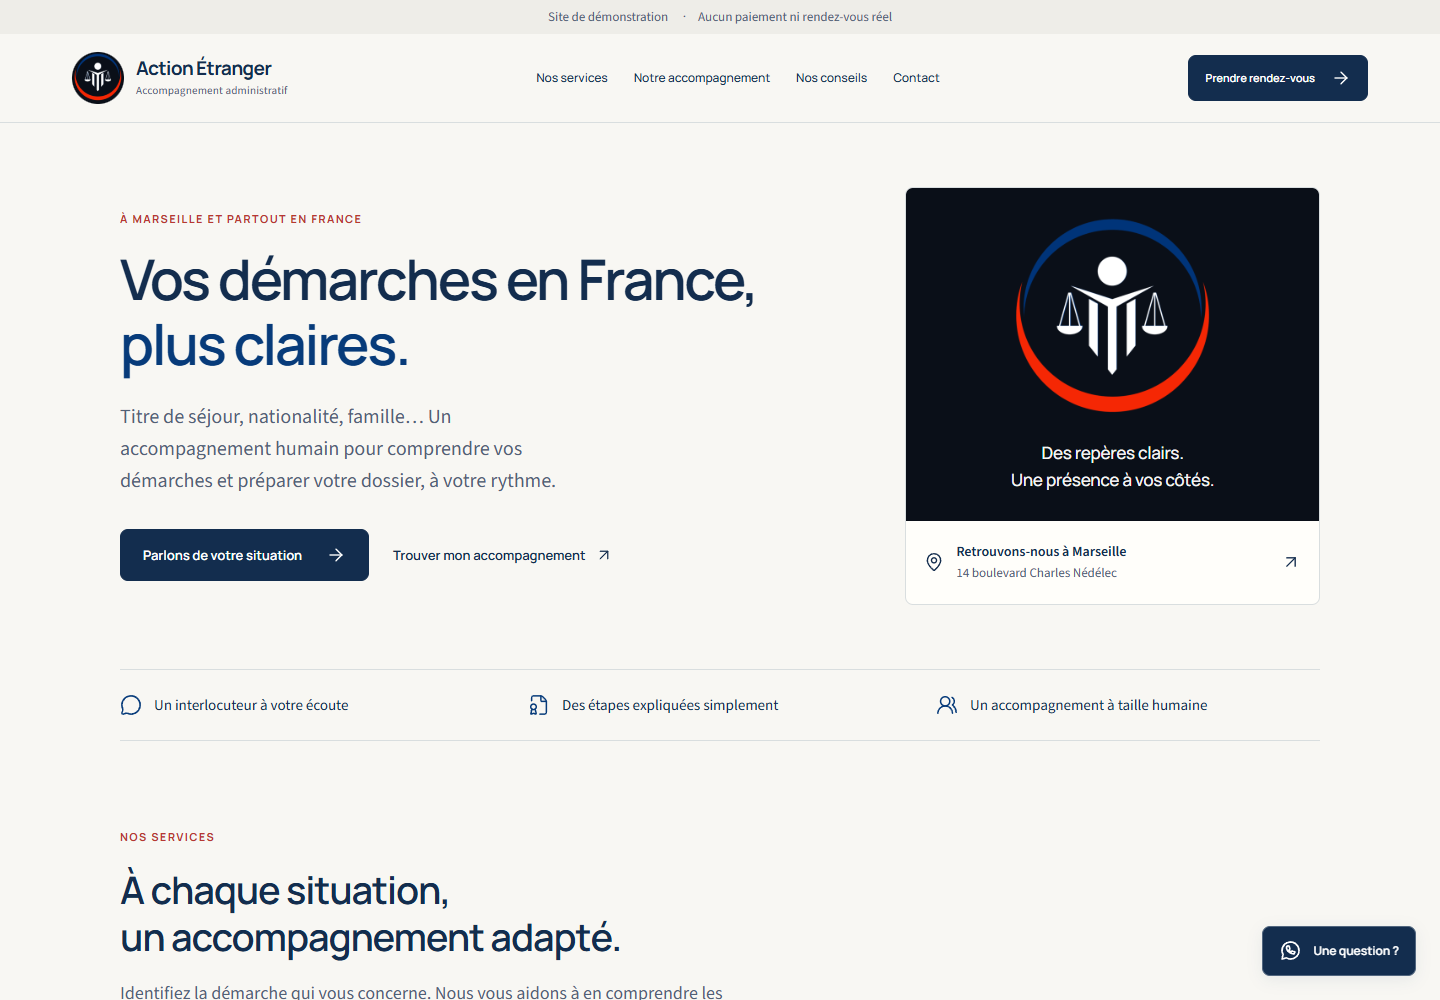
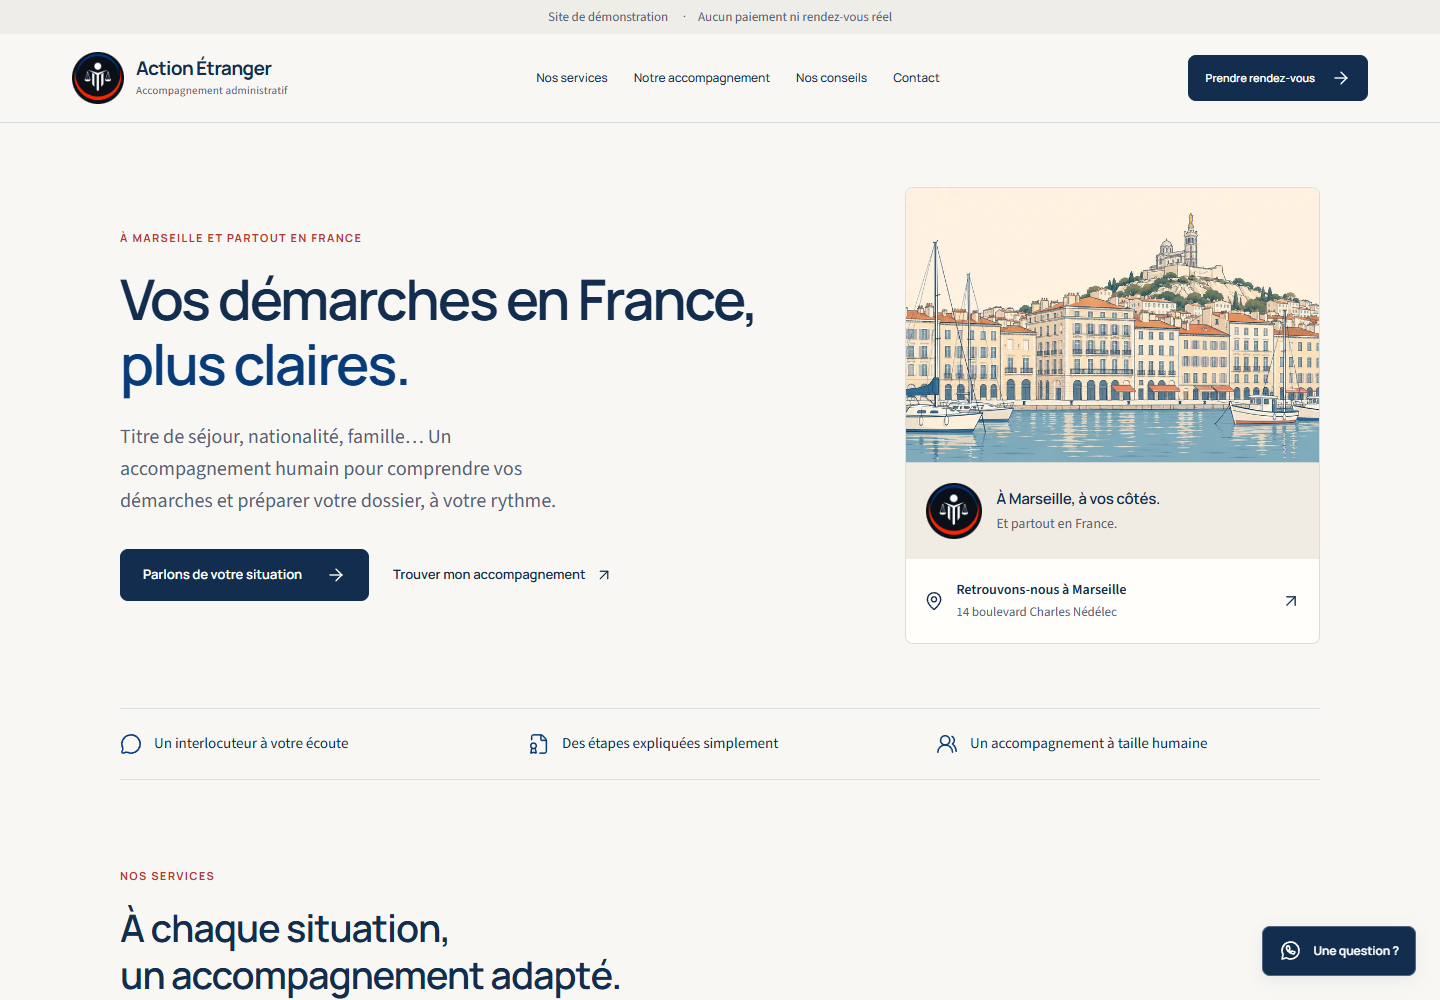
Add a restrained Marseille illustration to the homepage

diff --git a/style.css b/style.css
@@ -377,21 +377,40 @@ nav > a[aria-current]:after {
   background: var(--surface);
 }
 .brand-portrait {
-  background: #0a0f18;
-  text-align: center;
-  padding: 24px 24px 28px;
+  display: flex;
+  align-items: center;
+  gap: 14px;
+  background: #f0ece3;
+  padding: 20px;
 }
-.brand-portrait img {
-  width: 216px;
-  height: 216px;
+.marseille-scene {
+  display: block;
+  width: 100%;
+  height: auto;
+  aspect-ratio: 3 / 2;
+  object-fit: cover;
+  border-bottom: 1px solid #d2d8d6;
+}
+.brand-portrait .portrait-logo {
+  flex: 0 0 auto;
+  width: 56px;
+  height: 56px;
   object-fit: contain;
-  margin: auto;
+  border-radius: 50%;
+  background: #0a0f18;
 }
 .brand-portrait p {
-  color: #f5f5f5;
-  font: 500 17px/1.55 var(--heading);
+  color: var(--ink);
+  font: 600 15px/1.5 var(--heading);
   letter-spacing: -0.2px;
-  margin-top: 12px;
+  margin: 0;
+}
+.brand-portrait small {
+  display: block;
+  color: var(--muted);
+  font: 400 14px/1.5 var(--body);
+  letter-spacing: 0;
+  margin-top: 3px;
 }
 .hero-address {
   display: flex;
@@ -1301,14 +1320,15 @@ textarea {
     font-size: 18px;
   }
   .brand-portrait {
-    padding: 20px;
-  }
-  .brand-portrait img {
-    width: 180px;
-    height: 180px;
+    padding: 16px;
+    gap: 10px;
   }
   .brand-portrait p {
-    font-size: 15px;
+    font-size: 13px;
+  }
+  .brand-portrait .portrait-logo {
+    width: 44px;
+    height: 44px;
   }
   .hero-address > [data-ui-icon]:last-child {
     display: none;
@@ -1520,21 +1540,18 @@ textarea {
     font-size: 12px;
   }
   .hero-brand {
-    display: grid;
-    grid-template-columns: 112px 1fr;
+    display: block;
   }
   .brand-portrait {
-    padding: 8px;
-    display: flex;
-    align-items: center;
-    justify-content: center;
+    padding: 16px;
+    gap: 14px;
   }
-  .brand-portrait img {
-    width: 96px;
-    height: 96px;
+  .brand-portrait .portrait-logo {
+    width: 48px;
+    height: 48px;
   }
   .brand-portrait p {
-    display: none;
+    font-size: 14px;
   }
   .hero-address {
     padding: 16px;

diff --git a/index.html b/index.html
@@ -33,7 +33,7 @@
       type="font/woff2"
       crossorigin
     />
-    <link rel="stylesheet" href="style.css?v=20261116" />
+    <link rel="stylesheet" href="style.css?v=20261117-marseille" />
     <script src="app.js?v=20261116" defer></script>
   </head>
   <body>
@@ -100,15 +100,30 @@
             </div>
           </div>
           <aside class="hero-brand" aria-label="Action Étranger à Marseille">
+            <img
+              class="marseille-scene"
+              src="assets/marseille-vieux-port.webp"
+              srcset="
+                assets/marseille-vieux-port-768.webp 768w,
+                assets/marseille-vieux-port.webp     960w
+              "
+              sizes="(max-width: 600px) calc(100vw - 42px), (max-width: 900px) 300px, (max-width: 1200px) 400px, 415px"
+              alt="Illustration du Vieux-Port de Marseille, ses bateaux et Notre-Dame de la Garde à l’horizon"
+              width="960"
+              height="640"
+              fetchpriority="high"
+            />
             <div class="brand-portrait">
               <img
+                class="portrait-logo"
                 src="assets/action-etranger-logo-transparent.png"
                 alt="Logo officiel Action Étranger : une personne et la balance de la justice, entourées de bleu et de rouge"
                 width="512"
                 height="512"
-                fetchpriority="high"
               />
-              <p>Des repères clairs.<br />Une présence à vos côtés.</p>
+              <p>
+                À Marseille, à vos côtés.<small>Et partout en France.</small>
+              </p>
             </div>
             <a class="hero-address" href="#contact"
               ><span data-ui-icon="map-pin"></span

diff --git a/docs/MARSEILLE.md b/docs/MARSEILLE.md
@@ -1,0 +1,19 @@
+# Marseille homepage detail, 17 November 2026
+
+Added an editorial illustration of the Vieux-Port and Notre-Dame de la Garde to the homepage hero, with muted Mediterranean blue, warm stone and terracotta. The official transparent PNG remains unchanged in the header, hero caption and footer. The caption reads “À Marseille, à vos côtés. Et partout en France.” Existing contact destinations and booking behavior are preserved.
+
+## Assets and implementation
+
+The built-in image-generation tool created the city illustration. It is an atmospheric illustration, not a photograph or representation of the business premises. The geographical inspiration was checked against the [Marseille tourism office's Vieux-Port page](https://www.marseille-tourisme.com/decouvrez-marseille/culture-et-patrimoine/sites-et-monuments/le-vieux-port/).
+
+Saved assets: `assets/marseille-vieux-port.webp` (960×640) and `assets/marseille-vieux-port-768.webp` (768×512). Responsive image selection keeps downloads small. The full-resolution generated PNG is retained privately in the workspace output folder. The logo was not generated or altered.
+
+Changed `index.html` and `style.css` for the hero composition. Narrowed the existing logo-specific test selector in `tests/browser.cjs` so it only checks the logo's square proportions, rather than incorrectly applying that expectation to every image.
+
+## Validation
+
+51 browser checks passed at 1440, 1024, 768, 390 and 375px, including existing booking/admin flows. Three automated accessibility scans reported zero violations. Final local mobile Lighthouse: performance 98, accessibility 100, best practices 100, LCP 2.4s, CLS 0. These are lab results, not field measurements.
+
+## Final generation prompt
+
+Use case: stylized-concept. Asset type: small premium French website hero illustration, landscape aspect ratio 3:2, full bleed. Create a refined editorial illustration of Marseille's Vieux-Port, with the unmistakable hilltop silhouette of Notre-Dame de la Garde in the background, warm pale limestone waterfront facades, terracotta roofs and a few slender sailboat masts and boats on calm Mediterranean water in the foreground. Elegant contemporary architectural travel sketch, crisp fine navy ink outlines, flat muted watercolor-like color fields, almost no texture, sophisticated restraint and precise composition. Warm ivory sky, pale stone buildings, dusty light Mediterranean blue water, navy linework, a few muted terracotta accents. Keep the center skyline legible at 400px wide. Architecture in the middle, water in lower third, generous uncluttered sky in upper third with no giant sun. Calm, welcoming, professional, not cartoonish, not a souvenir poster, no gradients, no people, no text, no lettering, no logos, no border. This is an atmospheric city illustration, not a map or photograph of the client's premises.
